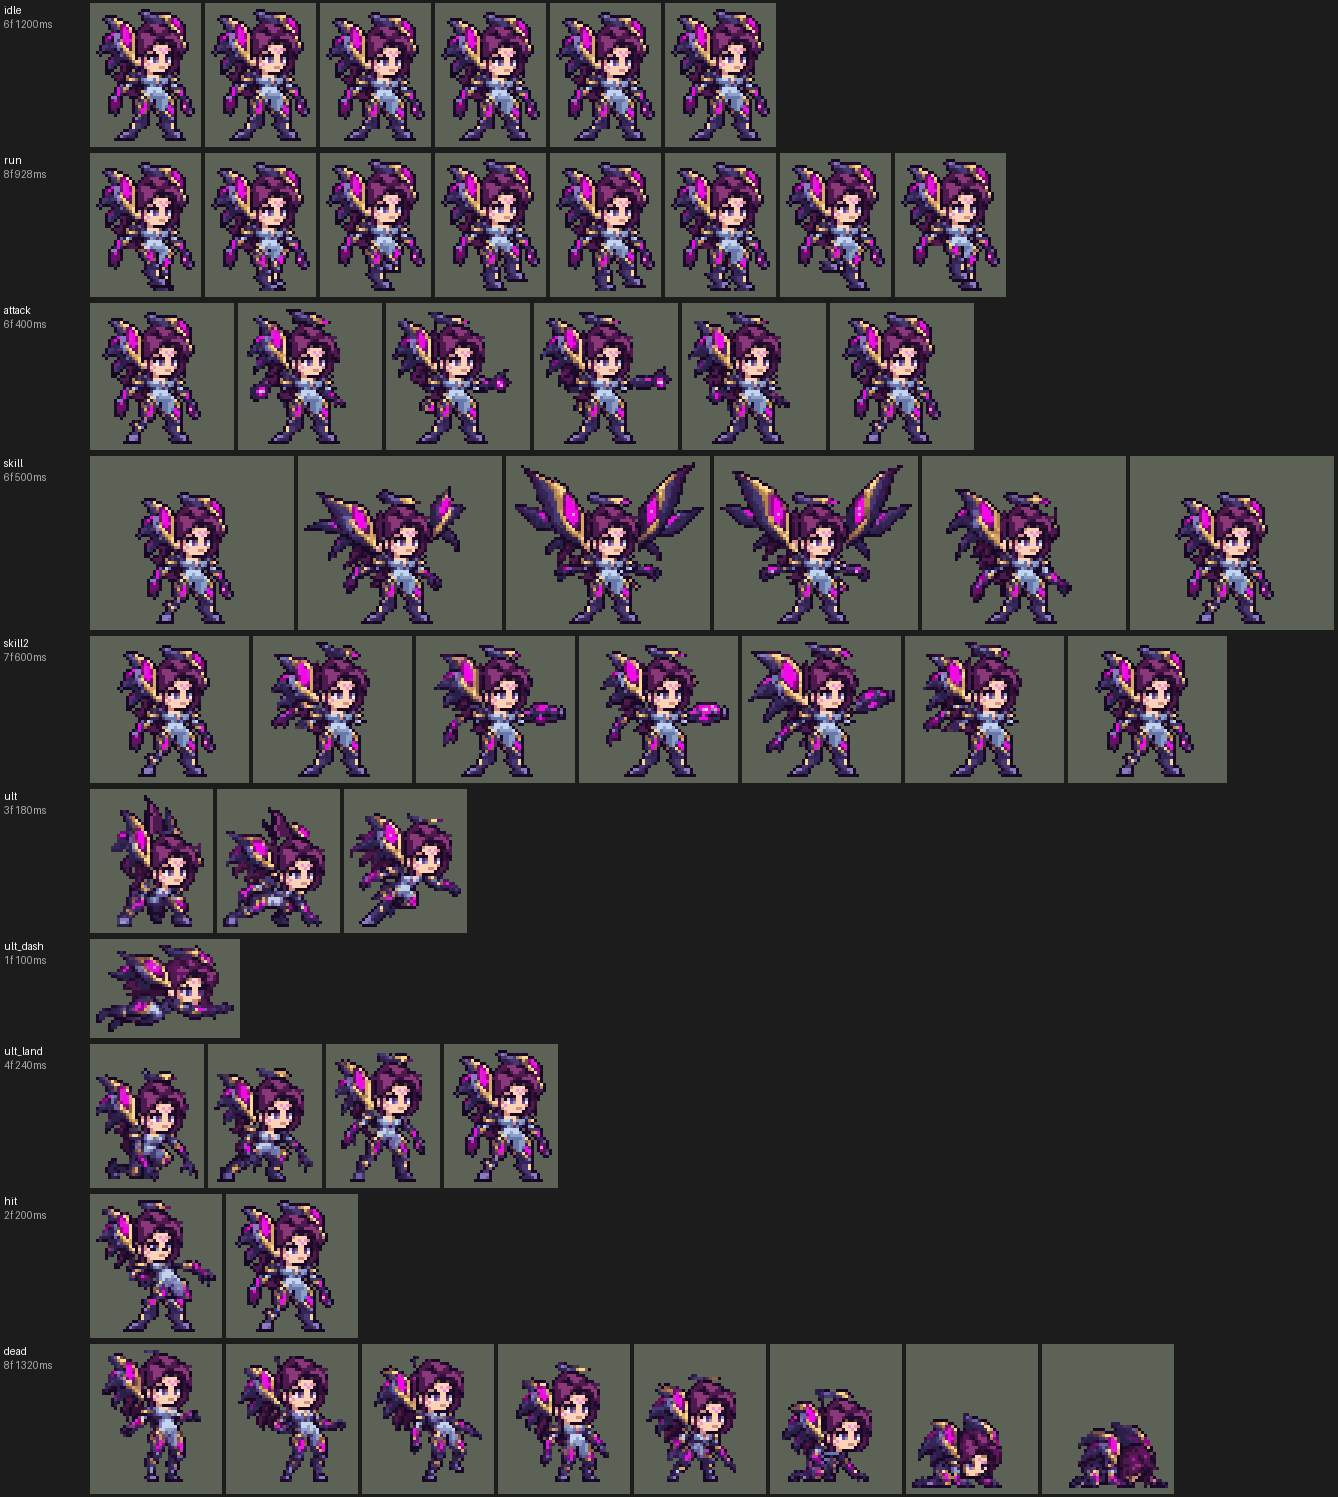
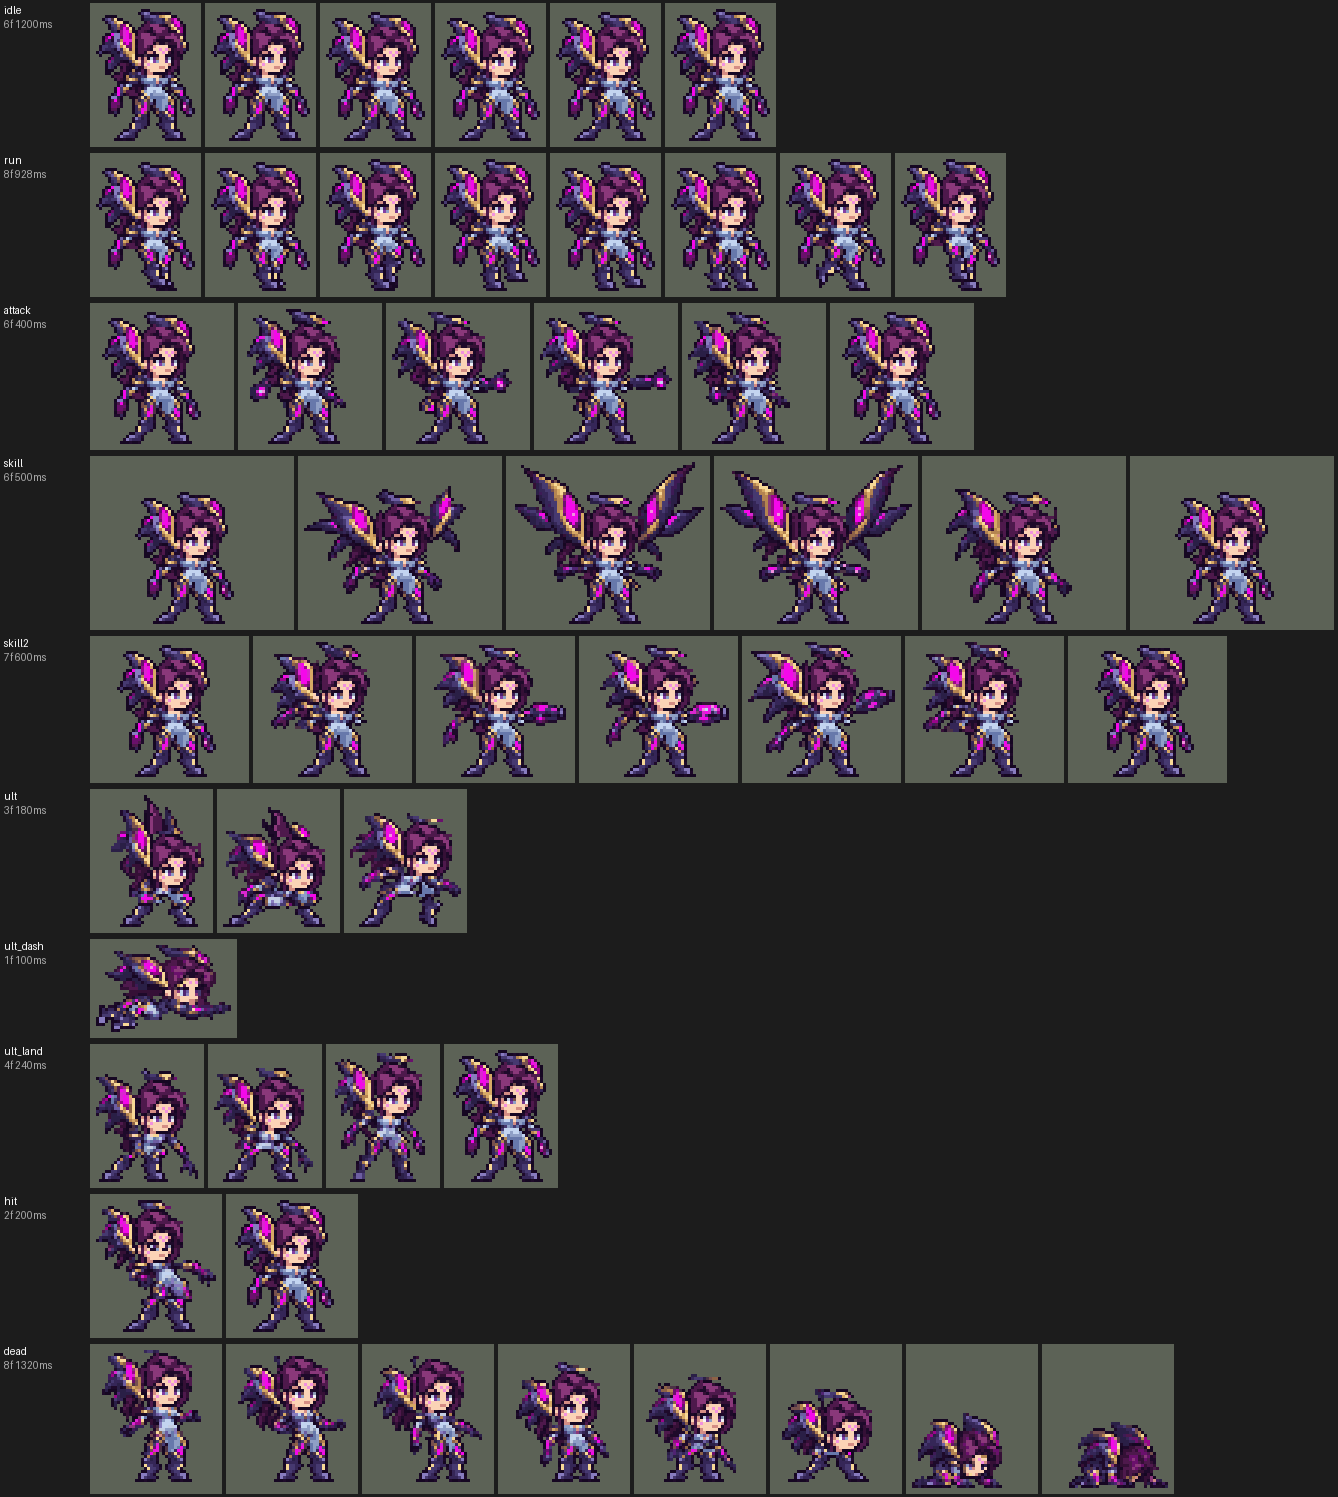
Kai'Sa: README on the posed legs; previews re-rendered

diff --git a/README.md b/README.md
@@ -1850,7 +1850,7 @@ python tools/art/preview_leblanc.py
 python tools/lol/extract_kaisa.py --lol "D:\WeGameApps\lol" --vgmstream "<vgmstream-cli.exe 路径>"
 python tools/lol/native_pose.py assets/source/kaisa/poses.json --out <渲染文件夹>   # 动作参考帧
 python tools/art/design_kaisa.py      # 造型：Codex 的 Q 版原稿 B 按它自己的格子取像素，裁到 44 行、34 色
-python tools/art/fix_kaisa_strips.py  # 待机两腿改成一样粗，移动按待机重建（大腿跟着摆、小腿用待机右腿），普攻 / Q / W 换成待机的身体，R 的后腿和头发
+python tools/art/fix_kaisa_strips.py  # 待机两腿改成一样粗，移动按待机重建（大腿跟着摆、小腿用待机右腿），普攻 / Q / W 换成待机的身体，R 和死亡的腿换成待机的腿，R 的头发
 python tools/art/import_native.py --hero kaisa
 python tools/art/import_kaisa.py      # 特效；--raw <Codex 的特效交付文件夹> 先把生图原稿缩成游戏尺寸的原尺寸条
 python tools/art/preview_kaisa.py
@@ -1860,7 +1860,7 @@ python tools/art/preview_kaisa.py
 
 - 原画和造型：Codex 画了两张原画，用户选 B（翼舱张开：她跑动、攻击时都张着，每条动作里翼舱是同一个形状，洋红色的光在深色身体上看得清）。造型包让 Codex 按游戏尺寸画，交回的仍是大图（A 79 格高、B 64 格高）。`design_kaisa.py`：`regrid.py` 按画出来的方格取像素，合并到 26 色（两只眼睛的虹膜保住），按删行规划裁到 40 / 42 / 44 行三版，用户选 44 行（「选B44」）；一层描边，放到 128 × 128 的画布上，脚底在第 99 行、两脚中间在第 64 列。
 - 动作：Codex 按参考帧画了 9 条，每帧贴定稿的头、用定稿的颜色；交回的摆动的腿全是 2–4 格粗的描边色色块（像一条尾巴），移动一个周期只迈一步。用户：「有问题的地方你进行收尾修正就行了」。`fix_kaisa_strips.py`：R 起跳第 1、2 帧甩起的头发（最暗的发色，像一根黑刺）内部换成中间色、左边提亮。
-- 移动：前后改了十三次（之前几版的问题：腿和身体脱节、腿太长、蛙腿、和放技能时的腿不一样、截肢、一粗一细、腿挂在侧面、脚像钉子、大腿不动、整条腿像木板滑、叉得太开）。定下来的这版（用户：「这版走路可以了」）全部用待机自己的像素：切线在腰带，腰带以上和两只手不动、落地两帧低一行；腰带下那两块洋红金边的其实是大腿（之前每版都把它们冻在待机的叉开姿势，只重画膝盖以下，所以脱节、大腿不跟着动），现在每条大腿是待机自己的大腿，斜切让膝盖收到身体下面并跟着步子摆；两条小腿都用待机右腿那段（护膝、小腿、靴子，一样粗），撑地时斜切让脚往后滑，后踢时护膝留在膝盖下、靴子抬起挪到膝盖后面（`RUN_POSE`）。步态照英雄联盟在游戏镜头下的跑步（按游戏尺寸逐关节渲染出来看：两腿在身体下面、以上抬为主，不往前后叉开）：近腿 2–5 帧撑地，远腿 6–8、1 帧撑地。待机的两条小腿原来一粗一细（「待机时候腿一粗一细」），左小腿换成右小腿的镜像，靴子还站在原处；普攻、Q、W、受击的腿和跑步都取自这个待机。
+- 移动：前后改了十三次（之前几版的问题：腿和身体脱节、腿太长、蛙腿、和放技能时的腿不一样、截肢、一粗一细、腿挂在侧面、脚像钉子、大腿不动、整条腿像木板滑、叉得太开）。定下来的这版（用户：「这版走路可以了」）全部用待机自己的像素：切线在腰带，腰带以上和两只手不动、落地两帧低一行；腰带下那两块洋红金边的其实是大腿（之前每版都把它们冻在待机的叉开姿势，只重画膝盖以下，所以脱节、大腿不跟着动），现在每条大腿是待机自己的大腿，斜切让膝盖收到身体下面并跟着步子摆；两条小腿都用待机右腿那段（护膝、小腿、靴子，一样粗），撑地时斜切让脚往后滑，后踢时护膝留在膝盖下、靴子抬起挪到膝盖后面（`RUN_POSE`）。步态照英雄联盟在游戏镜头下的跑步（按游戏尺寸逐关节渲染出来看：两腿在身体下面、以上抬为主，不往前后叉开）：近腿 2–5 帧撑地，远腿 6–8、1 帧撑地。待机的两条小腿原来一粗一细（「待机时候腿一粗一细」），左小腿换成右小腿的镜像，靴子还站在原处；普攻、Q、W、受击的腿和跑步都取自这个待机。之后又统一了其余动作的腿（用户：「你要改全改啊 什么SKILL 大招里面的腿还是不一样」「攻击的腿也不一样」）：Codex 照待机画的帧（普攻、Q、W 的首尾帧，受击第 2 帧，R 落地最后一帧）同样换成一样粗的两条小腿；摆姿势的帧（R 起跳 1–3、冲刺、落地 1–2，死亡 1–6）原来的腿比待机粗、颜色更深，现在每帧都换成待机自己的大腿和小腿，按原来的姿势斜切、转动（`POSED_LEGS`，脚底落在脚底线上）；死亡最后两帧趴在地上，腿几乎看不见，保留原样。之后试过一版更像英雄联盟的跑步（摆动腿的脚跟踢到膝盖高度、身体起伏 2 行、手臂前后摆），用户觉得不如这版，保留这版。
 - 特效用 Codex 画的 20 张（生图原稿，`import_kaisa.py --raw` 每格缩到游戏尺寸：每个游戏像素取覆盖的原稿像素里最多的颜色，三分之一以上不透明才画，颜色归到包里的色阶，光效外圈的暗色描边去掉）。电浆层数标记缩小后 4 个层数格连成一条，改成按宝石定位、层数格重画成 2 × 2、间隔 1 格（亮 = 已叠，暗 = 未叠）。用户看了说「Q和w特效和lol不一样」「Q应该是多重激光吧 w应该做大点吧 飞得距离很远啊」：Q 的导弹和 W 的光弹改成照英雄联盟自己的贴图（`Kaisa_Base_W_Bullet`、`W_plasma`、`Q_cas_smoke` 的颜色）画：W 是 45 × 13 的淡紫光弹（#C87FF2，粉白亮芯 #F9D9EF，带洋红电弧 #E66AD7 的波浪拖尾），蓄力、炮口和命中换成同一套紫色、放大（炮口 26 px、命中 30 px）；Q 每发是一道 26 px 的紫红激光（白粉色的头），前两帧从翼舱长出来。位置：掌心闪光在普攻第 3 帧掌心外 (19, −9)、第 4 帧 (23, −10)；W 蓄力在炮口 (22, −10)，开火的爆光在举起的炮口 (−15) 和光弹（8 px 高）之间；Q 的闪光在两个翼舱口 (−13, −30)、(16, −29)；地面上的（E 的光圈、R 起跳和落地、进化光柱）在脚底那一行；电浆标记在头顶上方。
 
 逐帧预览：[`docs/preview/league_kaisa_frames.png`](docs/preview/league_kaisa_frames.png)，特效：[`docs/preview/league_kaisa_effects.png`](docs/preview/league_kaisa_effects.png)。
